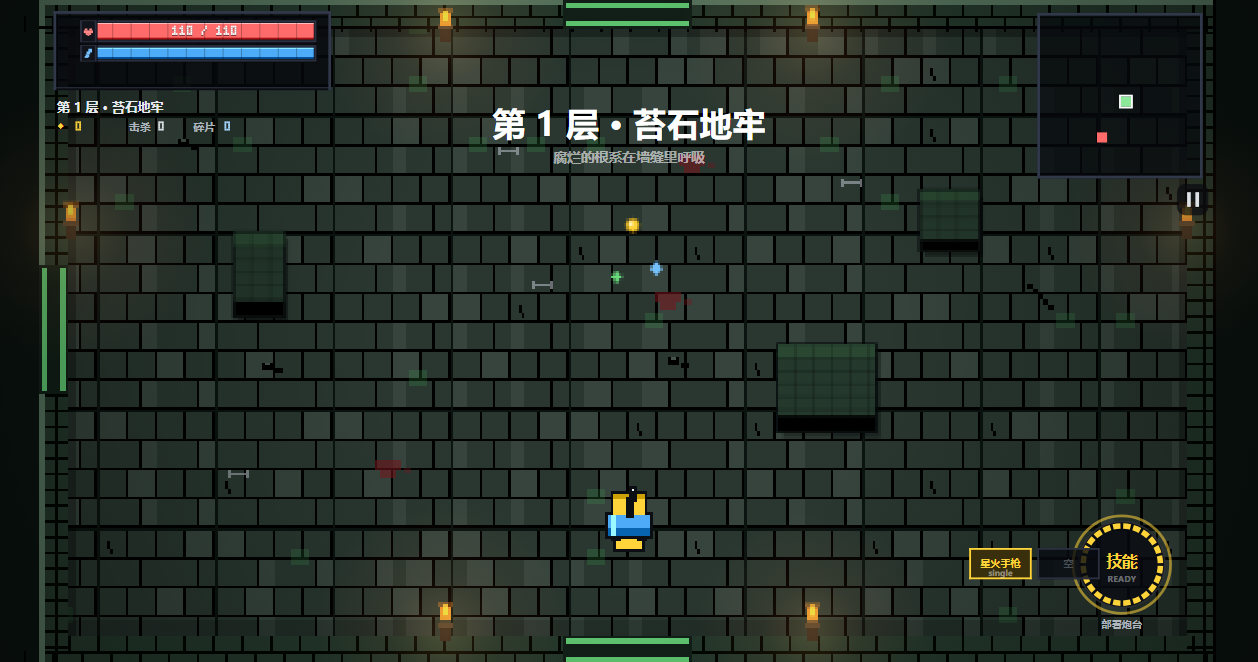
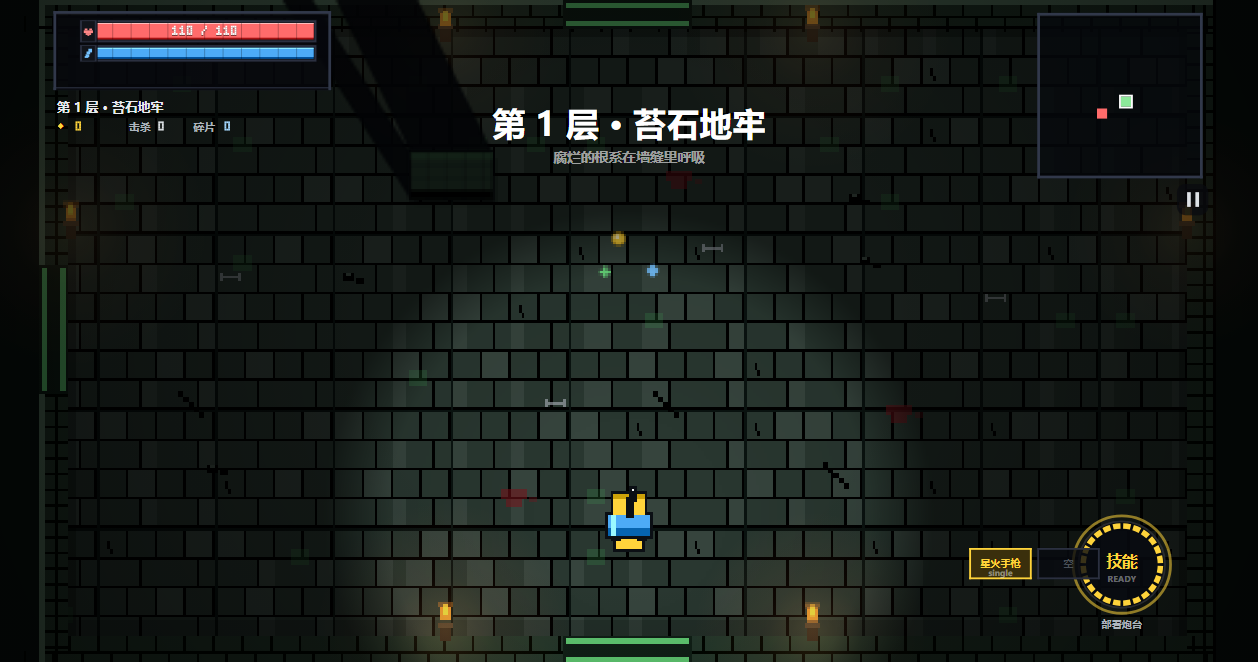
feat: 2D shadow casting (obstacle back-face extrusion + vision falloff)

diff --git a/index.html b/index.html
@@ -4837,6 +4837,56 @@
     ctx.restore();
   }
 
+  // 2D 阴影投射：以玩家为光源，把障碍矩形背光面挤出成阴影体
+  const SH = { cv: document.createElement('canvas'), c: null };
+  SH.c = SH.cv.getContext('2d');
+  function drawShadowPass(room, K, ox, oy, w, h) {
+    const g = SH.c;
+    if (SH.cv.width !== w || SH.cv.height !== h) { SH.cv.width = w; SH.cv.height = h; }
+    g.setTransform(1, 0, 0, 1, 0, 0);
+    g.globalCompositeOperation = 'source-over';
+    g.clearRect(0, 0, w, h);
+    g.fillStyle = 'rgba(0,0,0,0.55)';
+    g.fillRect(0, 0, w, h);
+    const p = G.run.player;
+    const px = p.x * K + ox, py = p.y * K + oy;
+    const rad = 330 * K;
+    g.globalCompositeOperation = 'destination-out';
+    const rg = g.createRadialGradient(px, py, rad * 0.3, px, py, rad);
+    rg.addColorStop(0, 'rgba(0,0,0,1)');
+    rg.addColorStop(0.7, 'rgba(0,0,0,0.88)');
+    rg.addColorStop(1, 'rgba(0,0,0,0)');
+    g.fillStyle = rg;
+    g.beginPath(); g.arc(px, py, rad, 0, TAU); g.fill();
+    g.globalCompositeOperation = 'source-over';
+    g.fillStyle = 'rgba(2,3,6,0.9)';
+    const L = 700 * K;
+    for (const o of room.obstacles) {
+      const x1 = o.x * K + ox, y1 = o.y * K + oy;
+      const x2 = (o.x + o.w) * K + ox, y2 = (o.y + o.h) * K + oy;
+      const cs = [[x1, y1], [x2, y1], [x2, y2], [x1, y2]];
+      const nr = [[0, -1], [1, 0], [0, 1], [-1, 0]];
+      for (let i = 0; i < 4; i++) {
+        const a = cs[i], b = cs[(i + 1) % 4], n = nr[i];
+        const mx = (a[0] + b[0]) / 2, my = (a[1] + b[1]) / 2;
+        let dx = mx - px, dy = my - py;
+        const dl = Math.hypot(dx, dy) || 1;
+        if (n[0] * dx + n[1] * dy <= 0) continue;
+        dx /= dl; dy /= dl;
+        g.beginPath();
+        g.moveTo(a[0], a[1]); g.lineTo(b[0], b[1]);
+        g.lineTo(b[0] + dx * L, b[1] + dy * L);
+        g.lineTo(a[0] + dx * L, a[1] + dy * L);
+        g.closePath(); g.fill();
+      }
+    }
+    ctx.save();
+    ctx.setTransform(1, 0, 0, 1, 0, 0);
+    ctx.imageSmoothingEnabled = true;
+    ctx.drawImage(SH.cv, 0, 0, w, h, 0, 0, canvas.width, canvas.height);
+    ctx.restore();
+  }
+
   function renderWorld() {
     const run = G.run;
     if (!run || !run.room) return;
@@ -4895,6 +4945,7 @@
     ctx.drawImage(PX.cv, 0, 0, w, h, 0, 0, canvas.width, canvas.height);
     ctx.imageSmoothingEnabled = true;
     drawPxLights(room, cfg);
+    drawShadowPass(room, K, ox, oy, w, h);
     ctx.setTransform(view.dpr, 0, 0, view.dpr, 0, 0);
     // 暗角
     const vg = ctx.createRadialGradient(view.w / 2, view.h / 2, Math.min(view.w, view.h) * 0.38, view.w / 2, view.h / 2, Math.max(view.w, view.h) * 0.78);
